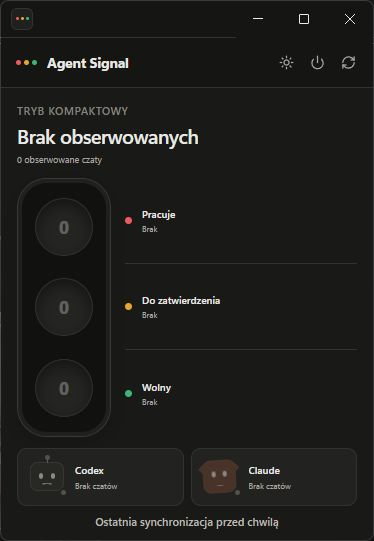
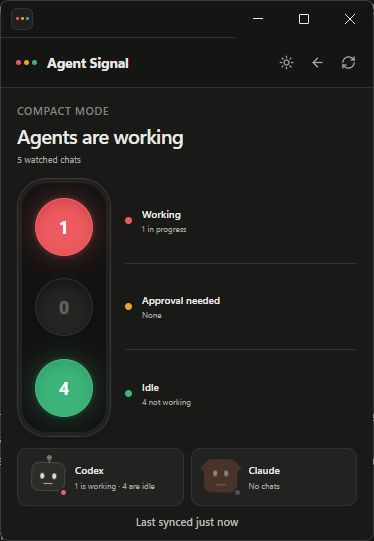
Fix compact mode navigation and pet motion

diff --git a/src/styles.css b/src/styles.css
@@ -2661,10 +2661,10 @@ html[data-compact="true"] body {
   height: 30px;
 }
 
-.compact-header .compact-exit:hover {
-  color: #fff;
-  border-color: color-mix(in srgb, var(--working) 45%, var(--line));
-  background: color-mix(in srgb, var(--working) 14%, var(--surface));
+.compact-header .compact-return:hover {
+  color: var(--text);
+  border-color: color-mix(in srgb, var(--idle) 45%, var(--line));
+  background: color-mix(in srgb, var(--idle) 12%, var(--surface));
 }
 
 .compact-dashboard {
@@ -2846,6 +2846,168 @@ html[data-compact="true"] body {
   font-size: 8px;
   text-overflow: ellipsis;
   white-space: nowrap;
+}
+
+/*
+ * Compact pets have a dedicated motion language. They intentionally do not
+ * inherit the dashboard's tool carousel, waving, or manager accessories.
+ */
+.status-pet--compact-motion .status-pet__body {
+  animation: compact-pet-ready 4.2s ease-in-out infinite;
+}
+
+.status-pet--compact-motion .status-pet__eye {
+  animation: compact-pet-scan 3.6s ease-in-out infinite;
+}
+
+.status-pet--compact-motion.status-pet--working .status-pet__body {
+  animation: compact-pet-monitor 2.4s ease-in-out infinite;
+}
+
+.status-pet--compact-motion.status-pet--attention .status-pet__body {
+  animation: compact-pet-alert 1.45s ease-in-out infinite;
+}
+
+.status-pet--compact-motion.status-pet--attention .status-pet__signal {
+  animation: compact-pet-signal 1.25s ease-in-out infinite;
+}
+
+.status-pet--compact-motion.status-pet--manager .status-pet__body {
+  animation: compact-pet-supervise 2.7s ease-in-out infinite;
+}
+
+.status-pet--compact-motion.status-pet--sleeping .status-pet__body {
+  animation: compact-pet-doze 3.8s ease-in-out infinite;
+}
+
+.status-pet--compact-motion.status-pet--sleeping .status-pet__eye {
+  animation: none;
+}
+
+.status-pet--compact-motion .status-pet__sleep i {
+  animation-name: compact-pet-zzz;
+  animation-duration: 3s;
+}
+
+@keyframes compact-pet-ready {
+  0%,
+  100% {
+    transform: translateY(0) rotate(0);
+  }
+
+  50% {
+    transform: translateY(-1px) rotate(1deg);
+  }
+}
+
+@keyframes compact-pet-monitor {
+  0%,
+  100% {
+    transform: translateX(0) translateY(0);
+  }
+
+  25% {
+    transform: translateX(-1px) translateY(-1px);
+  }
+
+  70% {
+    transform: translateX(1px) translateY(0);
+  }
+}
+
+@keyframes compact-pet-alert {
+  0%,
+  100% {
+    transform: translateY(0) scale(1);
+  }
+
+  14% {
+    transform: translateY(-2px) scale(1.02);
+  }
+
+  28% {
+    transform: translateY(0) scale(1);
+  }
+
+  42% {
+    transform: translateY(-1px) scale(1.01);
+  }
+}
+
+@keyframes compact-pet-supervise {
+  0%,
+  100% {
+    transform: translateX(0) rotate(-1deg);
+  }
+
+  38% {
+    transform: translateX(1px) rotate(2deg);
+  }
+
+  72% {
+    transform: translateX(-1px) rotate(0);
+  }
+}
+
+@keyframes compact-pet-scan {
+  0%,
+  38%,
+  62%,
+  100% {
+    transform: translateX(0) scaleY(1);
+  }
+
+  45% {
+    transform: translateX(1px) scaleY(1);
+  }
+
+  54% {
+    transform: translateX(-1px) scaleY(1);
+  }
+
+  78% {
+    transform: translateX(0) scaleY(0.16);
+  }
+}
+
+@keyframes compact-pet-signal {
+  0%,
+  100% {
+    box-shadow: 0 0 0 0 rgba(228, 166, 43, 0.2);
+    transform: scale(1);
+  }
+
+  50% {
+    box-shadow: 0 0 0 3px rgba(228, 166, 43, 0);
+    transform: scale(1.08);
+  }
+}
+
+@keyframes compact-pet-doze {
+  0%,
+  100% {
+    transform: translateY(1px) scale(1, 0.98);
+  }
+
+  50% {
+    transform: translateY(0) scale(1.015, 1);
+  }
+}
+
+@keyframes compact-pet-zzz {
+  0% {
+    opacity: 0;
+    transform: translate(1px, 2px) scale(0.7);
+  }
+
+  35% {
+    opacity: 0.72;
+  }
+
+  100% {
+    opacity: 0;
+    transform: translate(-2px, -5px) scale(1.05);
+  }
 }
 
 .compact-unknown {

diff --git a/src/components/StatusPet.tsx b/src/components/StatusPet.tsx
@@ -11,6 +11,7 @@ interface StatusPetProps {
   size?: "mini" | "small" | "large";
   sleeping?: boolean;
   manager?: boolean;
+  motion?: "dashboard" | "compact";
   language?: AppLanguage;
 }
 
@@ -20,15 +21,19 @@ export function StatusPet({
   size = "small",
   sleeping = false,
   manager = false,
+  motion = "dashboard",
   language = "pl"
 }: StatusPetProps) {
   const agentLabel = agent === "codex" ? "Codex" : "Claude";
+  const compactMotion = motion === "compact";
 
   return (
     <span
       className={`status-pet status-pet--${agent} status-pet--${status} status-pet--${size} ${
         sleeping ? "status-pet--sleeping" : ""
-      } ${manager ? "status-pet--manager" : ""}`}
+      } ${manager ? "status-pet--manager" : ""} ${
+        compactMotion ? "status-pet--compact-motion" : ""
+      }`}
       role="img"
       aria-label={`${agentLabel}: ${statusLabel(status, language)}`}
     >
@@ -48,17 +53,17 @@ export function StatusPet({
           <i>z</i>
         </span>
       )}
-      {!sleeping && status === "attention" && (
+      {!compactMotion && !sleeping && status === "attention" && (
         <i className="status-pet__wave" aria-hidden="true" />
       )}
-      {!sleeping && manager && (
+      {!compactMotion && !sleeping && manager && (
         <span className="status-pet__manager" aria-hidden="true">
           <i className="status-pet__manager-tie" />
           <i className="status-pet__manager-clipboard" />
           <i className="status-pet__manager-pointer" />
         </span>
       )}
-      {!sleeping && status === "working" && !manager && (
+      {!compactMotion && !sleeping && status === "working" && !manager && (
         <span className="status-pet__work" aria-hidden="true">
           <i className="status-pet__work-item status-pet__work-item--laptop">
             <i className="status-pet__laptop" />

diff --git a/src/components/CompactDashboard.tsx b/src/components/CompactDashboard.tsx
@@ -1,6 +1,6 @@
 import {
+  ArrowLeft,
   Moon,
-  Power,
   RefreshCw,
   Sun
 } from "lucide-react";
@@ -27,7 +27,7 @@ interface CompactDashboardProps {
   preferences: AppPreferences;
   onRefresh(): void;
   onThemeToggle(): void;
-  onExit(): void;
+  onExpand(): void;
 }
 
 const signalStatuses: SessionStatus[] = [
@@ -46,7 +46,7 @@ export function CompactDashboard({
   preferences,
   onRefresh,
   onThemeToggle,
-  onExit
+  onExpand
 }: CompactDashboardProps) {
   const copy = copyFor(preferences.language);
   const headline = compactHeadline(
@@ -85,13 +85,13 @@ export function CompactDashboard({
             {theme === "dark" ? <Sun size={15} /> : <Moon size={15} />}
           </button>
           <button
-            className="icon-button compact-exit"
+            className="icon-button compact-return"
             type="button"
-            title={copy.titlebar.exit}
-            aria-label={copy.titlebar.exit}
-            onClick={onExit}
+            title={copy.titlebar.fullView}
+            aria-label={copy.titlebar.fullView}
+            onClick={onExpand}
           >
-            <Power size={15} />
+            <ArrowLeft size={15} />
           </button>
           <button
             className="icon-button"
@@ -206,6 +206,7 @@ export function CompactDashboard({
                   size="large"
                   sleeping={sleeping}
                   manager={manager}
+                  motion="compact"
                   language={preferences.language}
                 />
                 <span>

diff --git a/src/components/CompactDashboard.render.test.tsx b/src/components/CompactDashboard.render.test.tsx
@@ -1,0 +1,33 @@
+import { renderToStaticMarkup } from "react-dom/server";
+import { describe, expect, it } from "vitest";
+import { DEFAULT_PREFERENCES } from "../shared/preferences";
+import { CompactDashboard } from "./CompactDashboard";
+
+describe("CompactDashboard controls", () => {
+  it("renders a full-dashboard return arrow instead of an Exit action", () => {
+    const markup = renderToStaticMarkup(
+      <CompactDashboard
+        counts={{
+          working: 0,
+          attention: 0,
+          idle: 0,
+          error: 0,
+          unavailable: 0
+        }}
+        sessions={[]}
+        theme="dark"
+        refreshing={false}
+        updatedAt="2026-07-26T00:00:00.000Z"
+        now={new Date("2026-07-26T00:00:01.000Z")}
+        preferences={DEFAULT_PREFERENCES}
+        onRefresh={() => undefined}
+        onThemeToggle={() => undefined}
+        onExpand={() => undefined}
+      />
+    );
+
+    expect(markup).toContain("lucide-arrow-left");
+    expect(markup).toContain('aria-label="Pełny widok"');
+    expect(markup).not.toContain('aria-label="Wyjście"');
+  });
+});

diff --git a/src/components/StatusPet.test.tsx b/src/components/StatusPet.test.tsx
@@ -1,0 +1,35 @@
+import { renderToStaticMarkup } from "react-dom/server";
+import { describe, expect, it } from "vitest";
+import { StatusPet } from "./StatusPet";
+
+describe("StatusPet motion variants", () => {
+  it("keeps compact pets separate from dashboard work animations", () => {
+    const markup = renderToStaticMarkup(
+      <StatusPet
+        agent="codex"
+        status="working"
+        size="large"
+        manager
+        motion="compact"
+      />
+    );
+
+    expect(markup).toContain("status-pet--compact-motion");
+    expect(markup).not.toContain("status-pet__work");
+    expect(markup).not.toContain("status-pet__manager-clipboard");
+    expect(markup).not.toContain("status-pet__wave");
+  });
+
+  it("keeps the dashboard tool animation unchanged", () => {
+    const markup = renderToStaticMarkup(
+      <StatusPet
+        agent="codex"
+        status="working"
+      />
+    );
+
+    expect(markup).not.toContain("status-pet--compact-motion");
+    expect(markup).toContain("status-pet__work");
+    expect(markup).toContain("status-pet__hammer");
+  });
+});

diff --git a/src/App.tsx b/src/App.tsx
@@ -503,9 +503,7 @@ export default function App() {
           preferences={snapshot.preferences}
           onRefresh={refresh}
           onThemeToggle={toggleTheme}
-          onExit={() => {
-            void agentApi.exitApp();
-          }}
+          onExpand={() => setCompact(false)}
         />
         {toast && <Toast message={toast} />}
       </div>

diff --git a/README.md b/README.md
@@ -155,10 +155,12 @@ Each signal has a restrained colored halo so its state remains legible without
 overpowering a dark desktop. The synchronization footer uses a larger,
 integer-sized font weight and size so it stays crisp at native Windows scaling.
 Compact mode also removes the File and View menus from its title bar, leaving
-more room for the signals. A dedicated Exit button sits beside the light/dark
-theme control, so the app can be stopped without expanding the dashboard.
+more room for the signals. A return arrow beside the light/dark theme control
+restores the full dashboard in one click. The two provider pets use a separate,
+restrained set of compact-only monitoring, alert, supervisor, and sleep
+animations instead of inheriting the dashboard's tools and gestures.
 
-![Agent Signal compact mode with illuminated traffic lights, hidden menus, and a dedicated Exit button](docs/screenshots/compact-dark-0.6.1-new.jpg)
+![Agent Signal compact mode with illuminated traffic lights and hidden menus](docs/screenshots/compact-dark-0.6.1-new.jpg)
 
 ## Pets and idle behavior
 
